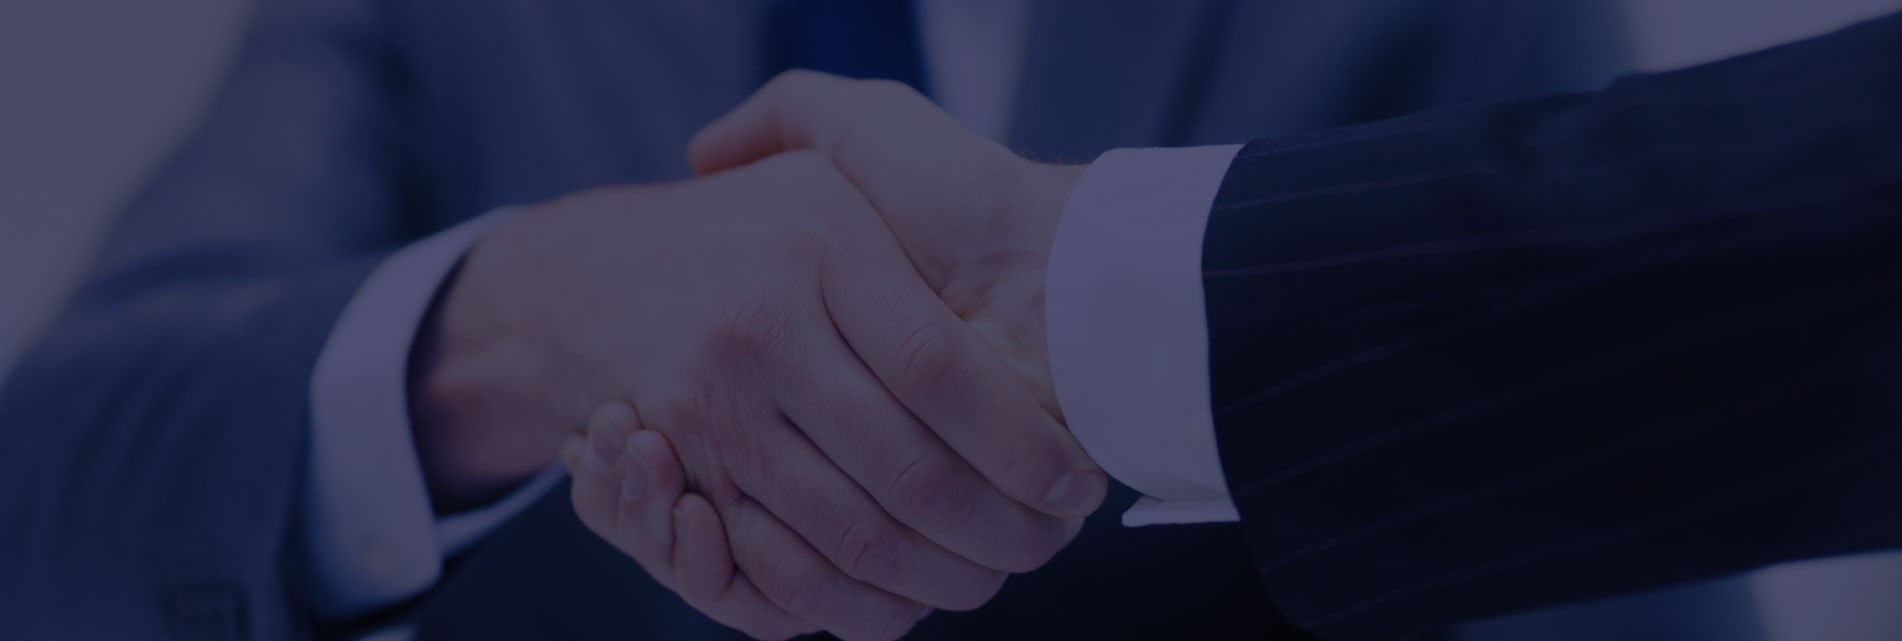
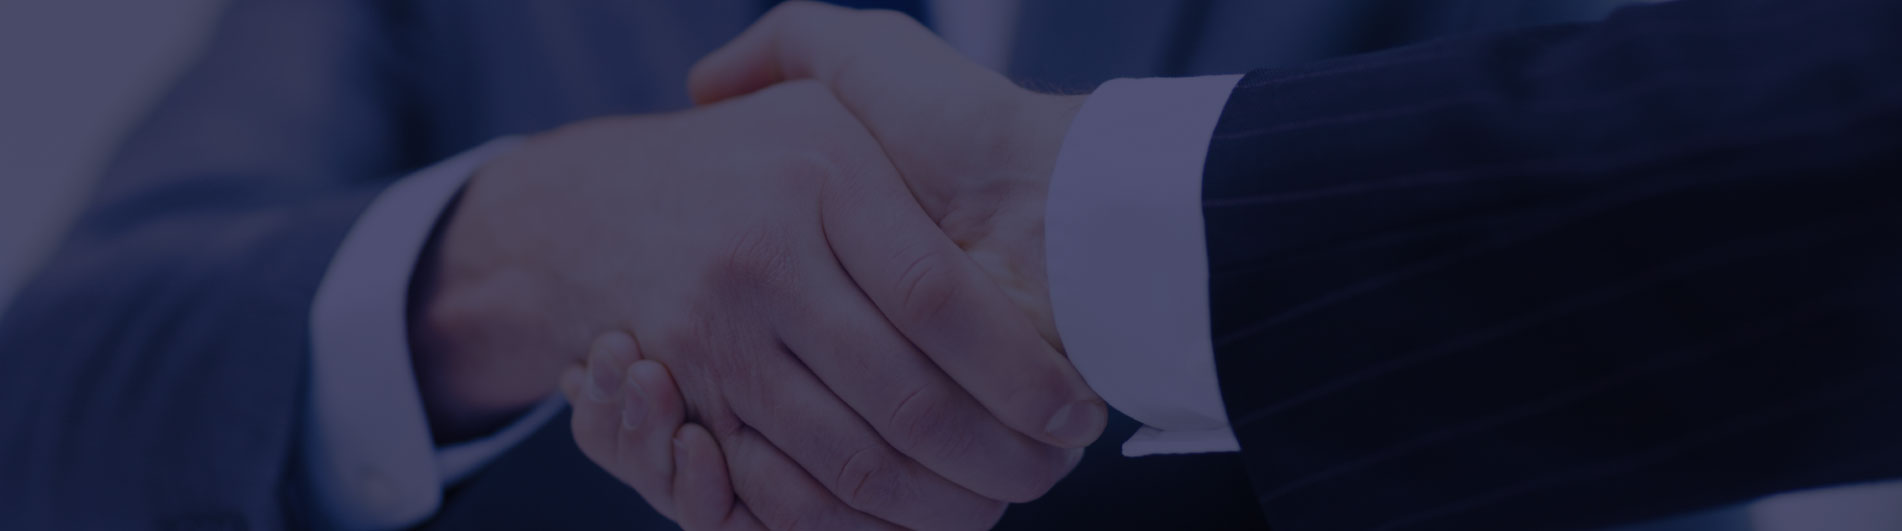
글자크기 변경

diff --git a/TEEware/css/main.css b/TEEware/css/main.css
@@ -2,97 +2,101 @@
 
 /* 해더 */
 #header {position:fixed; top:0; left:0; right:0; background:#29293a; z-index:10;}
-#header .inner {width:1314px; margin:0 auto; position: relative; height:158px;}
-#header .logo { position:absolute; top:50%; left:-110px; transform: translateY(-50%);}
-#header .logo a {background:url('../images/logo.png') 0 0 no-repeat; display:block; width:216px; height:68px;}
+#header .inner {width:1240px; margin:0 auto; position: relative; height:100px;}
+#header .logo { position:absolute; top:50%; left:0; transform: translateY(-50%);}
+#header .logo a {background:url('../images/logo.png') 0 0 no-repeat; display:block; width:172px; height:54px;}
 
-#header .gnb {position: absolute; top:50%; right:0; transform: translateY(-50%);}
-#header .gnb li {float:left; margin-right:56px;}
-#header .gnb li a { font-family:'Roboto', sans-serif; color:#fff; font-size:30px;}
+#header .gnb {position: absolute; top:50%; right:160px; transform: translateY(-50%);}
+#header .gnb li {float:left; margin-left:56px;}
+#header .gnb li a { font-family:'Roboto', sans-serif; color:#fff; font-size:23px;}
 
-#header .lang {position: absolute; top:50%; right:-110px; transform: translateY(-50%);}
-#header .lang a{font-size:25px; color:#94949d; margin-left:20px;}
+#header .lang {position: absolute; top:50%; right:10px; transform: translateY(-50%);}
+#header .lang a{font-size:20px; color:#94949d; margin-left:20px;}
 #header .lang a.active {color:#fff;}
+
+#wrap {min-width:1340px;}
 
 .mainvisual {
     background:url('../images/main_visual.jpg') 0 0 no-repeat;
+    background-size:cover;
     height:834px;
 }
+.mainvisual .inner {width:1240px; margin:0 auto; height:100%;}
 .mainvisual h2 {
-    font-size: 55px;
+    font-size: 45px;
     color: #fff;
     font-weight: normal;
-    top: 51%;
+    top:45%;
     left: 50%;
     transform: translate(-50%,-50%);
     position: absolute;
-    line-height: 1.4;
-    width: 100%;
+    line-height: 1.6;
+    width:100%;
     text-align: center;
     letter-spacing: -2px;
 }
-#container .inner {width:1314px; margin:0 auto;}
-#container  h3 { font-size:50px; text-align: center; padding:90px 0 55px;}
+#container .inner {width:1240px; margin:0 auto;}
+#container  h3 { font-size:40px; text-align: center; padding:80px 0 55px;}
 #container  p {
-    font-size: 23px;
+    font-size: 18px;
     color: #555;
     letter-spacing: -1px;
-    line-height: 1.4;
+    line-height: 2;
 }
 
 #container div.about { padding-bottom:73px;}
 
 #container div.vision {background:#f5f5f5; padding-bottom:100px;}
-#container div.vision h3 {font-weight:normal;}
 #container div.vision ul {text-align:center; width: 1290px; margin: 0 auto;}
 #container div.vision ul li {float:left; width:370px; word-break:keep-all; letter-spacing: -.5px}
-#container div.vision ul li:nth-child(2) {margin:0 110px; width:360px;}
+#container div.vision ul li:nth-child(2) {margin:0px 130px 0 65px; width:360px;}
 #container div.vision ul li:last-child {width:340px;}
 #container div.vision ul li div {min-height:147px;}
-#container div.vision ul li p{ font-size:28px; color:#262626; margin:40px 0 25px;}
-#container div.vision ul li span {font-size:20px; color:#545454; line-height: 1.4;}
+#container div.vision ul li p{ font-size:24px; color:#262626; margin:40px 0 25px; line-height:1;}
+#container div.vision ul li span {font-size:18px; color:#545454; line-height: 1.8;}
 
-#container div.partners {background: url('../images/bg_partner.jpg') 0 0 no-repeat; height:641px;}
-#container div.partners h3 {color:#fff;}
+#container div.partners {background: url('../images/bg_partner.jpg') 0 0 no-repeat; background-size:cover; height:530px;}
+#container div.partners h3 {color:#fff; padding-bottom:25px;}
 #container div.partners p {color:#fff; text-align: center; letter-spacing:0;}
-#container div.partners ul {width:1191px; margin:85px auto 0;}
+#container div.partners ul {width:1191px; margin:55px auto 0;}
 #container div.partners ul li {float:left; margin-left:53px;}
 #container div.partners ul li:first-child{margin-left:0;}
 
 #container div.notice {background: #ececec; padding-bottom:90px;}
 #container div.notice .swiper-wrapper {width:1190px; margin:0 auto;}
-#container div.notice .swiper-slide {position: relative; width:278px; height:310px; background: #fff; padding:25px; box-sizing:border-box; }
+#container div.notice .swiper-slide {position: relative; width:278px; height:298px; background: #fff; padding:25px; box-sizing:border-box; }
 
 #container div.notice .swiper-slide .category {background:#1e90ff; color:#fff; padding:5px 8px;}
-#container div.notice .swiper-slide .date {color:#797171; font-size:16px; position: absolute; top:20px; right:15px;}
-#container div.notice .swiper-slide h4 {color:#262626; font-size:23px; padding:25px 0 20px;}
-#container div.notice .swiper-slide p {color:#545454; font-size:18px;}
+#container div.notice .swiper-slide .date {color:#797171; font-size:14px; position: absolute; top:25px; right:15px;}
+#container div.notice .swiper-slide h4 {color:#262626; font-size:20px; padding:25px 0 20px;}
+#container div.notice .swiper-slide p {color:#545454; font-size:16px; line-height: 1.4;}
 #container div.notice .swiper-slide a{ position: absolute; color:#797171; font-size:18px; bottom:25px; right:15px;}
 
-#container div.notice .swiper-slide.main {width:577px; background: url('../images/bg_slide.jpg') 0 0 no-repeat;}
+#container div.notice .swiper-slide.main {width:557px; background: url('../images/bg_slide.jpg') 0 0 no-repeat;}
 #container div.notice .swiper-slide.main .date {color:#fff;}
 #container div.notice .swiper-slide.main h4 {color:#fff;}
-#container div.notice .swiper-slide.main p {color:#fff; width:90%; word-break: keep-all;}
+#container div.notice .swiper-slide.main p {color:#fff; word-break: keep-all;}
 #container div.notice .swiper-slide.main a{color:#fff;}
 
 #container div.notice .swiper-button-prev {background: url('../images//btn_prev.png') 0 0 no-repeat; width:36px; height:65px;}
 #container div.notice .swiper-button-next {background: url('../images//btn_next.png') 0 0 no-repeat; width:36px; height:65px;}
 
 #container div.contact {padding-bottom:50px;}
-#container div.contact h4 {font-size:28px; margin-bottom:20px;}
+#container div.contact h4 {font-size:22px; margin-bottom:20px;}
 #container div.contact ul li {float:left; width:380px; word-break:keep-all; letter-spacing: -.5px; font-size:23px; color:#545454;}
-#container div.contact ul li:nth-child(2) {margin:0 82px;}
-#container div.contact ul li:last-child {width:390px;}
-#container div.contact ul li dl dt {display:inline-block; width:45px; vertical-align: top;}
-#container div.contact ul li dl dd {display:inline-block;}
+#container div.contact ul li:nth-child(2) {margin:0 45px;}
+#container div.contact ul li:last-child {width:368px;}
+#container div.contact ul li dl {margin-bottom:35px;}
+#container div.contact ul li dl dt {display:inline-block; width:38px; vertical-align:middle;}
+#container div.contact ul li dl dd {display:inline-block; font-size:18px;}
 
 #container div.contact ul li form {text-align: right;}
 #container div.contact ul li input {width:100%; height:50px; background: #ececec; color:#545454; text-indent: 20px; font-size:18px; margin-bottom:10px; border:0; box-sizing: border-box;}
 #container div.contact ul li textarea { width:100%; box-sizing: border-box; resize: none;  background: #ececec; color:#545454;  padding:20px; border:0; font-size:18px; font-weight: bold;}
-#container div.contact ul li button {width:115px; height:40px; color:#fff; font-size:20px; text-align: center; background: #1e90ff; margin-top:8px;}
+#container div.contact ul li button {width:115px; height:40px; color:#fff; font-size:18px; text-align: center; background: #1e90ff; margin-top:8px;}
 
 #footer {background: #29293a;}
-#footer .inner {width:1314px; margin:0 auto; position: relative; height:127px;}
+#footer .inner {width:1314px; margin:0 auto; position: relative; height:117px;}
 #footer .logo { position:absolute; top:50%; left:-110px; transform: translateY(-50%);}
 #footer .logo a {background:url('../images/logo.png') 0 0 no-repeat; display:block; width:216px; height:68px;}
-#footer p {color:#fff; text-align: right; font-size:18px; line-height: 127px;}
+#footer p {color:#fff; text-align: right; font-size:16px; line-height: 117px; font-weight: normal;}

diff --git a/TEEware/index.html b/TEEware/index.html
@@ -61,7 +61,9 @@
         
         <!-- 메인비주얼 -->
         <div class="mainvisual">
-            <h2>Teeware는 보안 기술을 통해 블록체인과 같은<br/>첨단 기술을 신뢰하고 사용할 수 있는 세상을 만듭니다.</h2>
+            <div class="inner">
+                <h2>Teeware는 보안 기술을 통해 블록체인과 같은<br/>첨단 기술을 신뢰하고 사용할 수 있는 세상을 만듭니다.</h2>
+            </div>
         </div>
         <!-- //메인비주얼 -->
 
